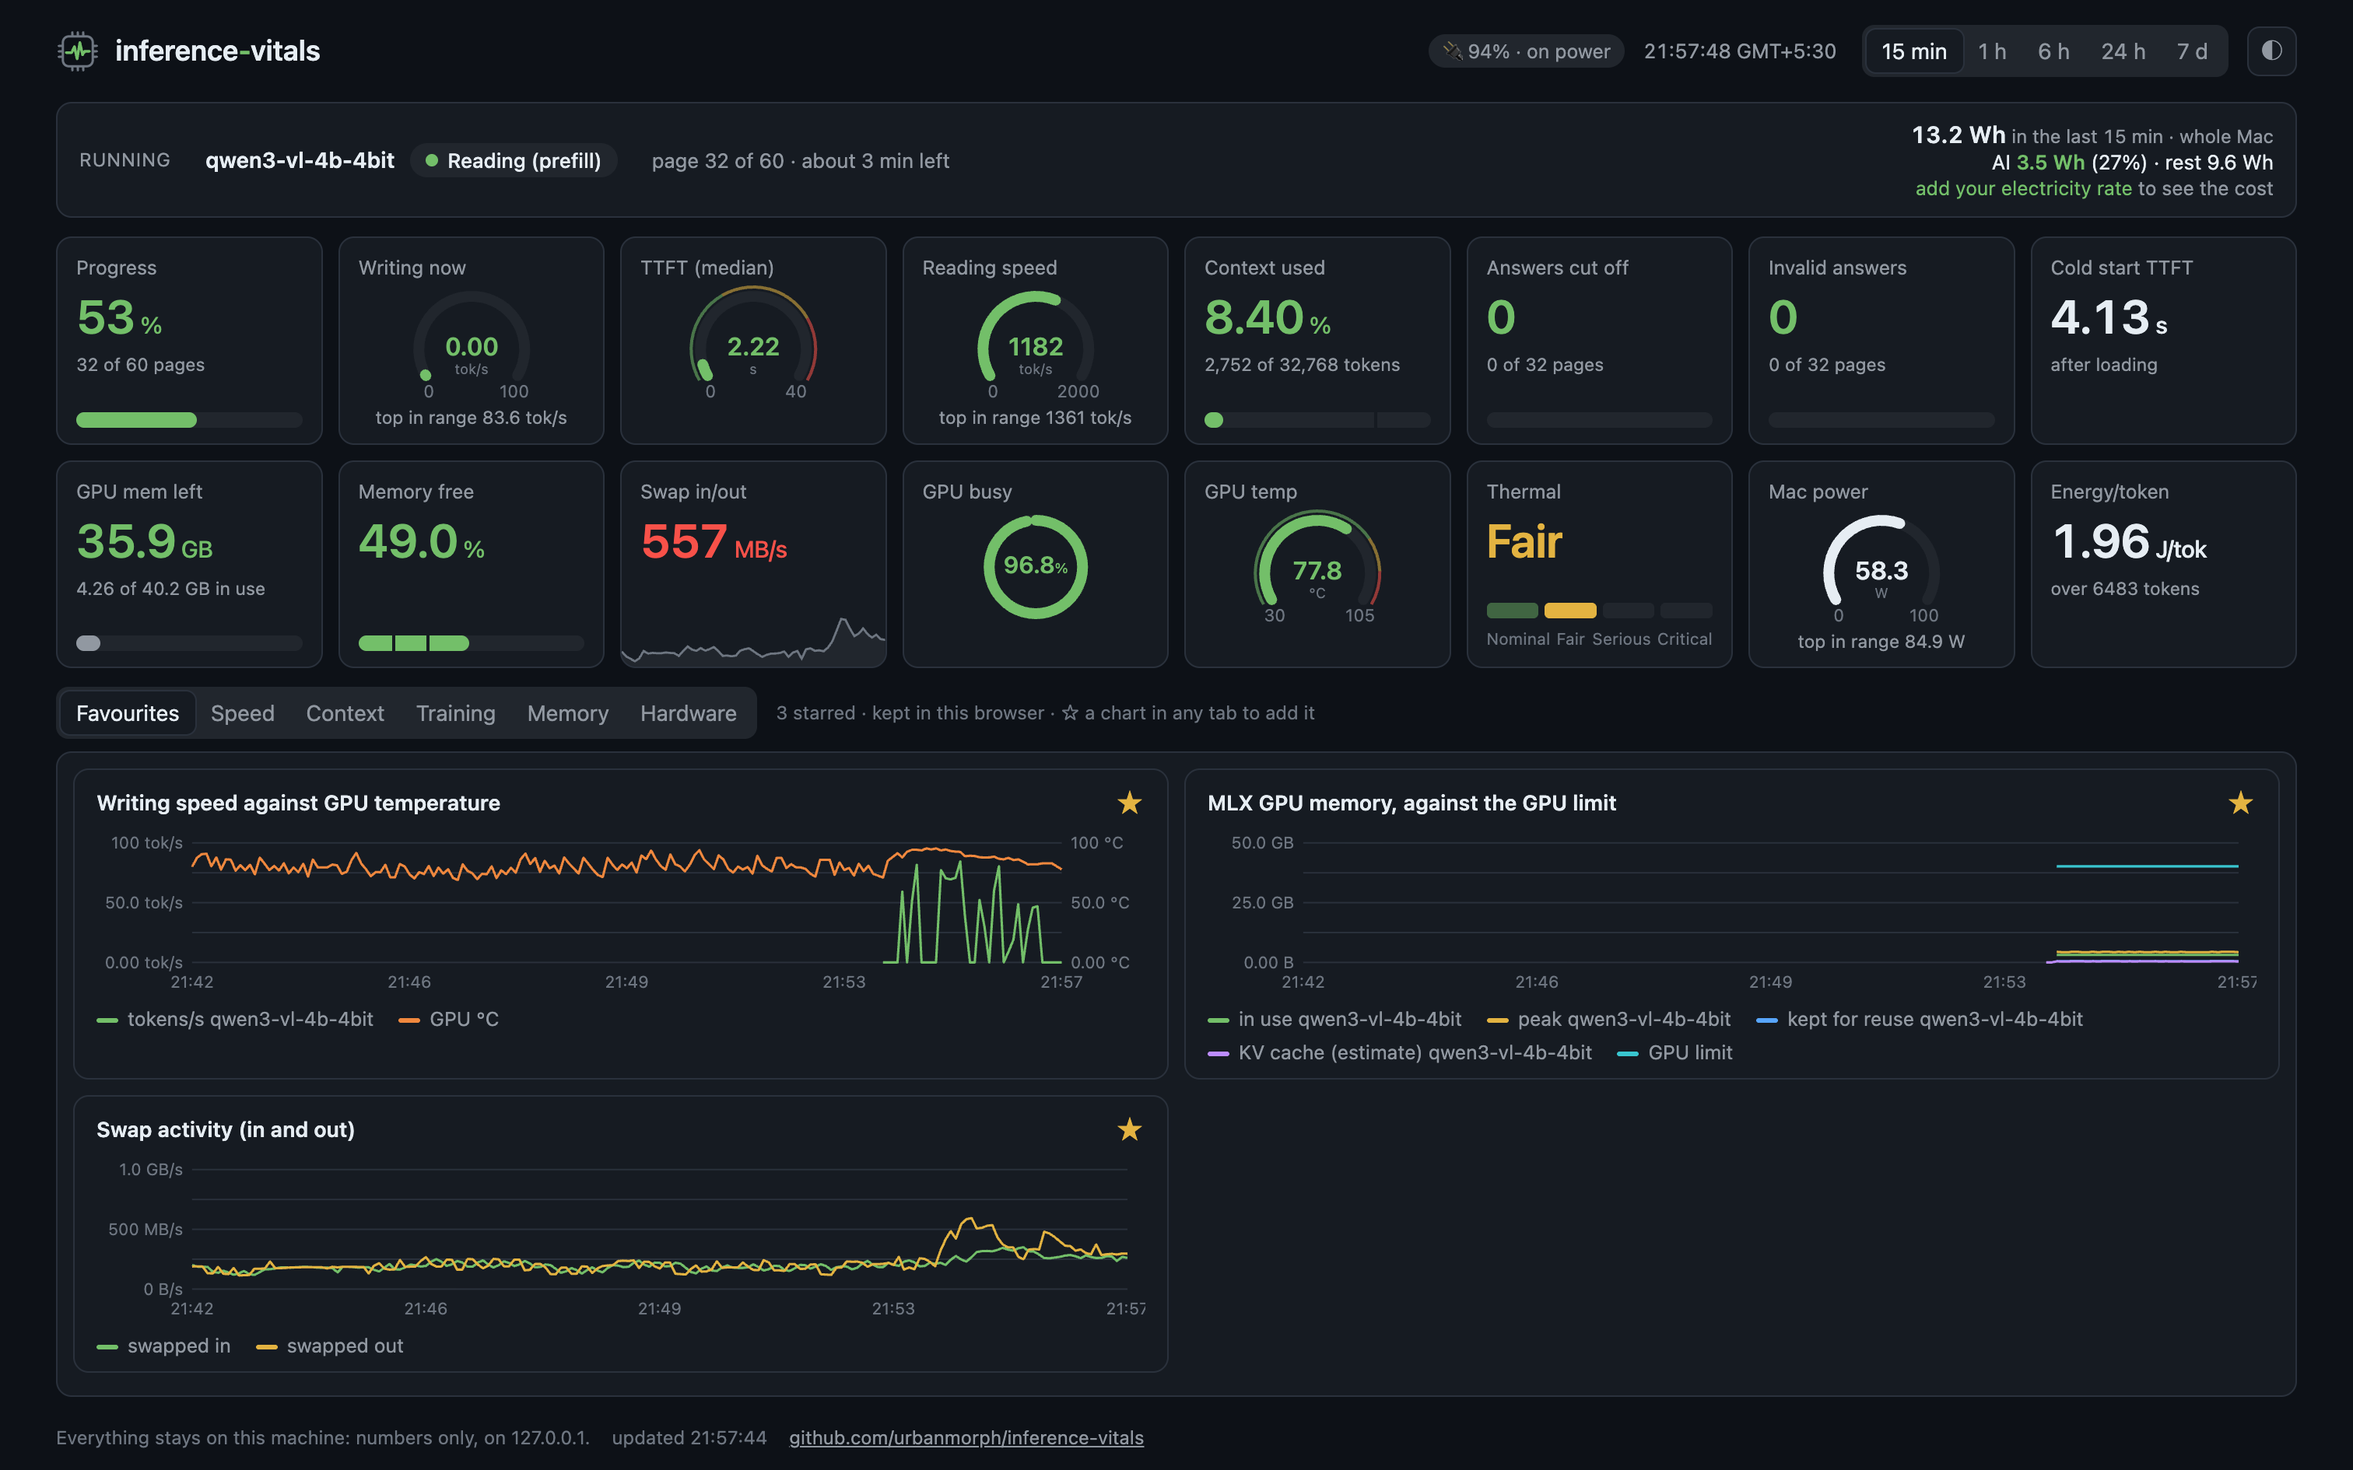
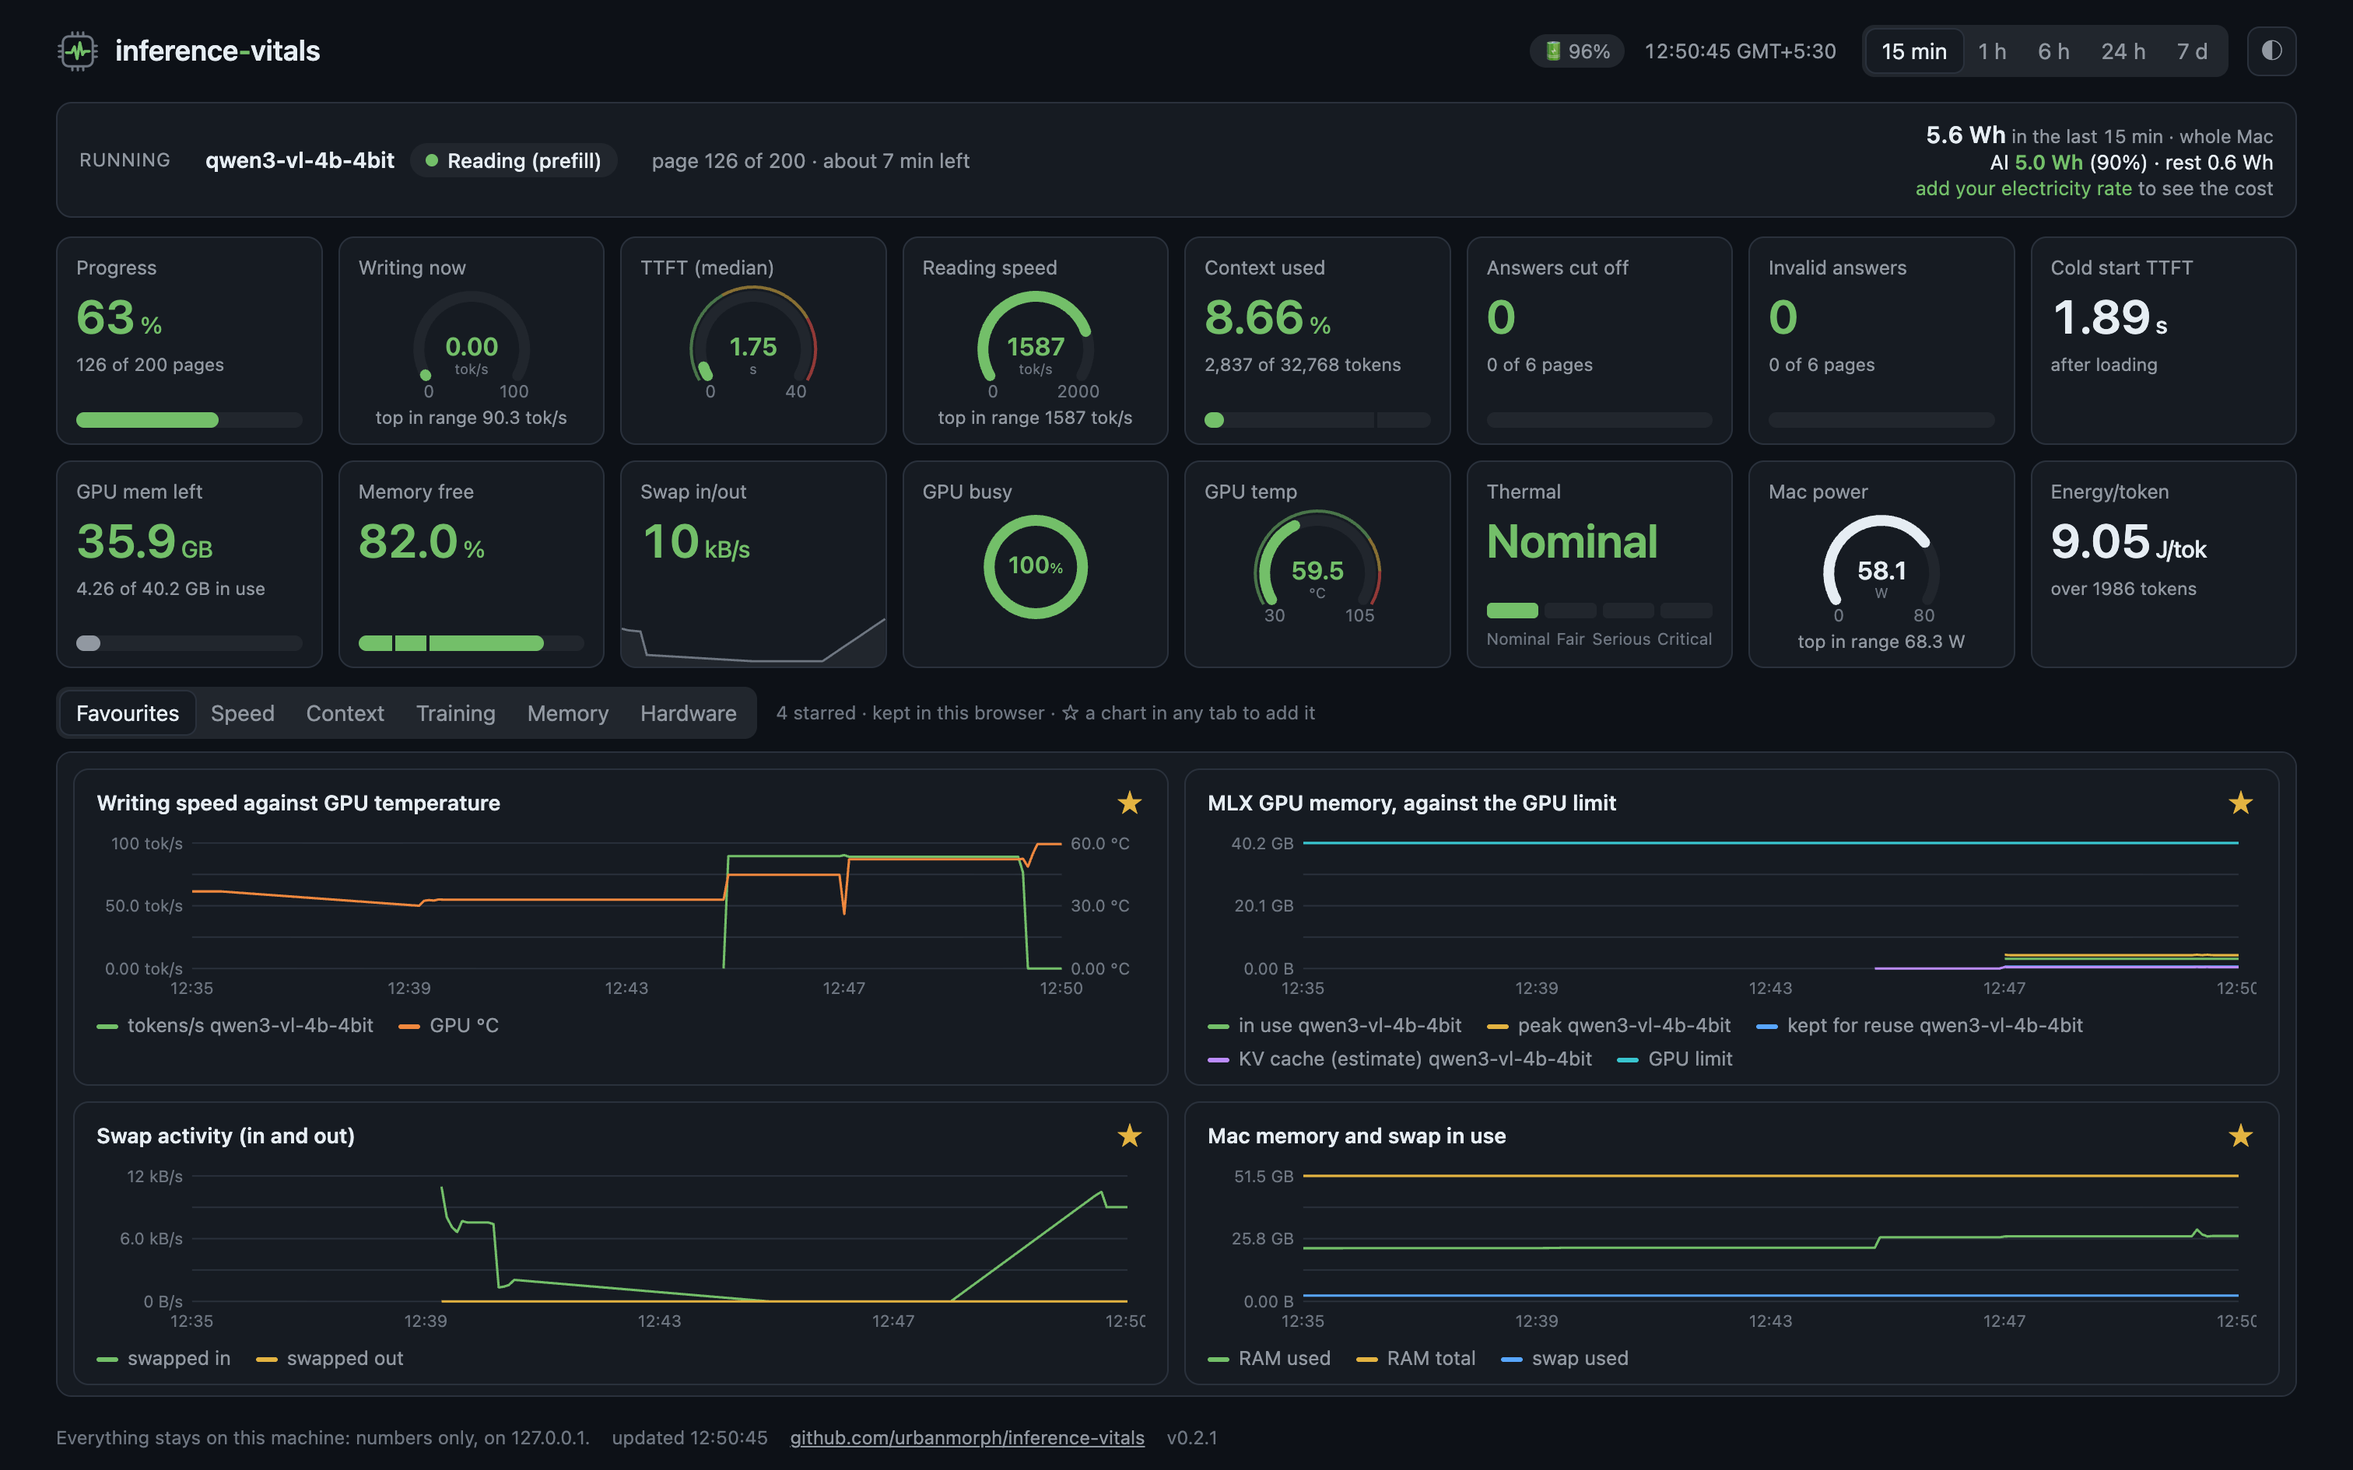
0.2.1: changelog and release notes, AGENTS.md current, screenshots retaken, Favourites fill the grid
- CHANGELOG.md, in plain words; the release workflow checks it has notes for
  the tag's version and uses them for the GitHub release (generated notes
  were near empty, as nothing came through pull requests).
  scripts/release_notes.py, tested.
- AGENTS.md: the messages start now prints (port in use, did not start),
  its non-zero exit, updating with `uv tool upgrade` then `start`,
  `--version`, gpustat "not used".
- Screenshots retaken on 0.2.1: a model run on SaralCare's synthetic and
  public sample pages, a short LoRA on made-up images; no private data.
- Favourites starts with four charts for a model run too (the machine's
  memory joins), so the README's first image has no empty quarter.
- CONTRIBUTING: how to release. Version 0.2.1.

diff --git a/src/inference_vitals/ui.py b/src/inference_vitals/ui.py
@@ -239,19 +239,17 @@ def _views(platform: str) -> tuple[dict, list]:
 
 
 def _favourites(platform: str, views: list) -> dict:
-    """What Favourites shows until someone stars their own: for a model run, the speed chart, the model's
-    memory and swap; for a fine-tune, its loss and speed, the machine's memory and swap."""
+    """What Favourites shows until someone stars their own, four charts to fill its grid: for a model run,
+    the speed chart, the model's memory, swap and the machine's memory; for a fine-tune, its loss and speed,
+    its peak memory against the GPU limit, and swap."""
     by_key = {v["key"]: v["charts"] for v in views}
     swap = "Swap activity (in and out)"
-    # a fine-tune's: its loss and speed, and its peak memory against the GPU limit (on the memory chart)
-    memory = (
-        "MLX GPU memory, against the GPU limit"
-        if platform == MAC
-        else "GPU memory (VRAM), used against total"
-    )
+    mac = platform == MAC
+    gpu = "MLX GPU memory, against the GPU limit" if mac else "GPU memory (VRAM), used against total"
+    machine = "Mac memory and swap in use" if mac else "Memory available (percent)"
     return {
-        "inference": [by_key["speed"][0], by_key["memory"][0], swap],
-        "training": [*by_key["training"][:2], memory, swap],
+        "inference": [by_key["speed"][0], by_key["memory"][0], swap, machine],
+        "training": [*by_key["training"][:2], gpu, swap],
     }
 
 

diff --git a/tests/test_docs.py b/tests/test_docs.py
@@ -106,3 +106,20 @@ def test_users_install_from_pypi_and_never_need_a_clone():
     assert (
         "uv add inference-vitals" in (ROOT / "docs/connect.md").read_text()
     )  # the library, in one's project
+
+
+def test_every_release_has_notes_in_the_changelog_and_the_release_uses_them():
+    import importlib.util
+    import tomllib
+
+    spec = importlib.util.spec_from_file_location("release_notes", ROOT / "scripts/release_notes.py")
+    mod = importlib.util.module_from_spec(spec)
+    spec.loader.exec_module(mod)
+    version = tomllib.loads((ROOT / "pyproject.toml").read_text())["project"]["version"]
+    notes = mod.notes((ROOT / "CHANGELOG.md").read_text(), version)
+    assert notes.strip() and not notes.lstrip().startswith(
+        "## "
+    )  # this version's section, without its heading
+    assert mod.notes("## 0.3.0\n\nnew\n\n## 0.2.0\n\nold\n", "0.2.0").strip() == "old"
+    flow = (ROOT / ".github/workflows/release.yml").read_text()
+    assert "scripts/release_notes.py" in flow and "--notes-file" in flow and "--generate-notes" not in flow

diff --git a/scripts/release_notes.py b/scripts/release_notes.py
@@ -1,0 +1,21 @@
+"""A release's notes: its section of CHANGELOG.md, without the heading. Used by .github/workflows/release.yml.
+
+python scripts/release_notes.py 0.2.1 > notes.md     exits 1 if CHANGELOG.md has no notes for 0.2.1
+"""
+
+import pathlib
+import re
+import sys
+
+
+def notes(changelog: str, version: str) -> str:
+    """The text under "## <version>" (anything after the version on that line is allowed), up to the next "## "."""
+    m = re.search(rf"^## {re.escape(version)}\b[^\n]*\n(.*?)(?=^## |\Z)", changelog, re.MULTILINE | re.DOTALL)
+    return m.group(1).strip() + "\n" if m else ""
+
+
+if __name__ == "__main__":
+    text = notes(pathlib.Path("CHANGELOG.md").read_text(), sys.argv[1].removeprefix("v"))
+    if not text.strip():
+        sys.exit(f"CHANGELOG.md has no notes for {sys.argv[1]}")
+    sys.stdout.write(text)

diff --git a/tests/test_ui.py b/tests/test_ui.py
@@ -380,3 +380,11 @@ def test_a_fine_tune_s_default_favourites_all_have_something_to_show(platform):
     assert fav == ["Training and validation loss, against GPU temperature", "Tokens trained per second", memory,
                    "Swap activity (in and out)"]  # fmt: skip
     assert "Writing speed against GPU temperature" not in fav  # a model run's: half empty during a fine-tune
+
+
+@pytest.mark.parametrize("platform", queries.PLATFORMS)
+def test_favourites_fill_the_two_by_two_grid_in_both_modes(platform):
+    fav = ui.spec(platform)["favourites"]
+    machine = "Mac memory and swap in use" if platform == queries.MAC else "Memory available (percent)"
+    assert len(fav["inference"]) == 4 and fav["inference"][-1] == machine  # no empty quarter on a first look
+    assert len(fav["training"]) == 4

diff --git a/CHANGELOG.md b/CHANGELOG.md
@@ -1,0 +1,48 @@
+# Changes
+
+Install or update with `uv tool install inference-vitals` / `uv tool upgrade inference-vitals`, then
+`inference-vitals start`.
+
+## 0.2.1
+
+**Updating is now one step.** After `uv tool upgrade inference-vitals`, run `inference-vitals start`: it
+sees that an older version is still running and restarts it. `inference-vitals --version` and the first
+line of `status` show the version; so does the page's footer.
+
+**`start` tells the truth about what started.**
+- If another program already holds a port (often Prometheus or macmon run by `brew services`, or a
+  second copy of inference-vitals), `start` names the port and the usual fix and starts nothing there,
+  instead of saying "started" while showing someone else's numbers.
+- A service that stops at once is reported with the last line of its log.
+- `start` exits with an error when anything did not start, so scripts and AI agents can tell.
+- Cutting its output short (`inference-vitals start | head`) no longer stops it halfway.
+- On Linux without an NVIDIA GPU, `start` works (0.2.0 crashed there) and `status` says why the GPU
+  exporter is not used.
+
+**The page**
+- Loads cleanly the first time: its server dropped most of a first visit's ~40 requests, leaving tiles
+  empty until the next refresh.
+- Charts with a limit end at the real limit: "Mac memory and swap in use" tops out at your Mac's own
+  memory, not a round 100 GB. Other charts round up less.
+- The GPU memory chart shows a fine-tune's peak against your Mac's GPU limit (read from Metal, as MLX
+  reads it), even with no model run reporting one. If a fine-tune swaps, you can see why.
+- The battery chip follows plugging in and out within seconds (it could lag a minute and a half).
+
+**Fine-tuning**
+- A fine-tune that was killed no longer holds the page for a week: an hour after it stops reporting, the
+  page goes back to the model run. A finished one stays for a day, so last night's run is still there in
+  the morning.
+- A slow trainer shows up straight away (mlx-vlm on an 8B showed nothing for its first 10 steps), and
+  its time per step and time left are the trainer's own (they read 9.6 s and 28 minutes for an 85 s
+  step and a 4-hour run).
+- During a fine-tune, Favourites shows its loss, its speed, its memory against the GPU limit, and swap.
+  For a model run it now starts with four charts (the machine's memory joins), so its grid is full.
+
+**Under the hood:** idle power is worked out once a minute by Prometheus (the costliest query, before);
+fewer requests per refresh; the code is split into `queries.py`, `grafana.py` and `monitor.py`. Tested
+on macOS and in a Debian container, and with Grafana 13.
+
+## 0.2.0
+
+First release on PyPI: `uv tool install inference-vitals`. The dashboard page and the Grafana dashboard
+for model runs and fine-tunes on an Apple Silicon Mac, or on Linux with NVIDIA GPUs (experimental).

diff --git a/AGENTS.md b/AGENTS.md
@@ -13,8 +13,12 @@ uv tool install inference-vitals          # puts `inference-vitals` on the PATH
 inference-vitals start                     # starts four services, each only if not running
 ```
 
-Then the page is at `http://127.0.0.1:3000`. `inference-vitals status` must show every service
-answering; if one says NOT READY, its log path is printed: read it (a port in use is the usual cause).
+Then the page is at `http://127.0.0.1:3000`. `start` exits non-zero when anything did not start, and
+says why on that service's line. `inference-vitals status` must show every service `running answering`
+(on Linux without `nvidia-smi`, gpustat says `not used`, which is fine).
+
+To update: `uv tool upgrade inference-vitals`, then `inference-vitals start`; it restarts whatever an
+older version left running. `inference-vitals --version` (or the first line of `status`) gives the version.
 
 ## What the user wants → what to do
 
@@ -41,7 +45,9 @@ Only one of the proxy, the library, `train` and `watch-training` can report at a
 | Symptom | Cause | Fix |
 | --- | --- | --- |
 | Band says "Nothing reporting" | Nothing on 8400 | Start the proxy, the library, or `train`; check `curl 127.0.0.1:8400/metrics` |
-| `NOT READY` from `start` | Port in use, often a `brew services` copy | `brew services stop prometheus` (or the named one), then `start` |
+| `<name>: port <n> is already in use by another program` from `start` | Another program holds the port: a `brew services` copy, or another copy of inference-vitals | `brew services stop prometheus` (or `macmon`), or `inference-vitals stop` in that copy; then `start` |
+| `<name>: did not start: …` or `NOT READY` | The service exited or never answered | The line includes its log's last line and the log path: read the log |
+| `status` says an older version is still running | Upgraded, not restarted | `inference-vitals start` |
 | Tiles empty with the proxy: Progress, Context used (and GPU mem left shows the whole machine) | A proxy cannot see these | Expected; the library reports them |
 | A fine-tune shows no numbers | Its trainer's output format is not known | Use `inference_vitals.training` in the loop, or add the format ([CONTRIBUTING.md](CONTRIBUTING.md)) |
 | `address already in use` on 8400 | Two reporters at once | Stop one |

diff --git a/docs/dashboard.md b/docs/dashboard.md
@@ -10,8 +10,8 @@ then tabs that swap the charts below them, so the live numbers never scroll out 
 **Favourites · Speed · Context · Training · Memory · Hardware.** Each tab shows its charts two to a row,
 sized to the space under the tiles; a tab with more scrolls inside its own area. Every chart has a ☆ in
 its title: star it and it joins **Favourites**, the first tab; click the ★ to take it off. Until you star
-your own, Favourites shows writing speed against GPU temperature, the model's memory against the GPU limit
-and swap activity; during a fine-tune, its loss and tokens trained per second, its peak memory against the
+your own, Favourites shows writing speed against GPU temperature, the model's memory against the GPU limit,
+swap activity and the machine's memory; during a fine-tune, its loss and tokens trained per second, its peak memory against the
 GPU limit (on Linux, against VRAM) and swap activity instead. Your stars are kept in this browser; "reset to the defaults" brings the starting
 set back. Every chart has a crosshair: point at any moment for each line's reading.
 

diff --git a/CONTRIBUTING.md b/CONTRIBUTING.md
@@ -31,6 +31,16 @@ Capture a few lines of its real output (a step, a validation pass, a save; numbe
 them. Then add a row to the trainers table in [docs/training.md](docs/training.md), saying what it was
 tested against. The test keeps the reader honest if the trainer changes its format.
 
+## Releasing
+
+1. Add the release's notes under `## <version>` at the top of [CHANGELOG.md](CHANGELOG.md), in plain
+   words for the people who use it; they become the GitHub release's notes.
+2. `uv version <version>`, retake the screenshots if the page changed (`sh docs/take-screenshots.sh`,
+   during a model run on made-up documents; `WHAT=training`, during a fine-tune), commit and push.
+3. When the tests pass on `main`, `git tag -a v<version> -m "inference-vitals <version>"` and push the
+   tag. `.github/workflows/release.yml` tests on macOS and Linux, checks the tag, the version and the
+   notes agree, publishes to PyPI (trusted publishing, no token) and makes the GitHub release.
+
 ## Where things are
 
 | Path | What |

diff --git a/README.md b/README.md
@@ -75,7 +75,8 @@ only numbers are collected, never prompts, answers or file names. More: [docs/li
 | [Metrics](docs/metrics.md) | Every metric name, for other tools that read Prometheus |
 | [Limits](docs/limits.md) | Privacy in full, overhead, what it cannot show |
 | [AGENTS.md](AGENTS.md) | For coding agents helping you: tasks, checks, symptoms, rules |
-| [CONTRIBUTING.md](CONTRIBUTING.md) | Tests, checks, adding a trainer, where things are |
+| [CONTRIBUTING.md](CONTRIBUTING.md) | Tests, checks, adding a trainer, releasing, where things are |
+| [CHANGELOG.md](CHANGELOG.md) | What changed in each release |
 
 It is [Prometheus](https://prometheus.io) with a dashboard page of its own (or
 [Grafana](https://grafana.com)), [macmon](https://github.com/vladkens/macmon) for the chip on a Mac (on
